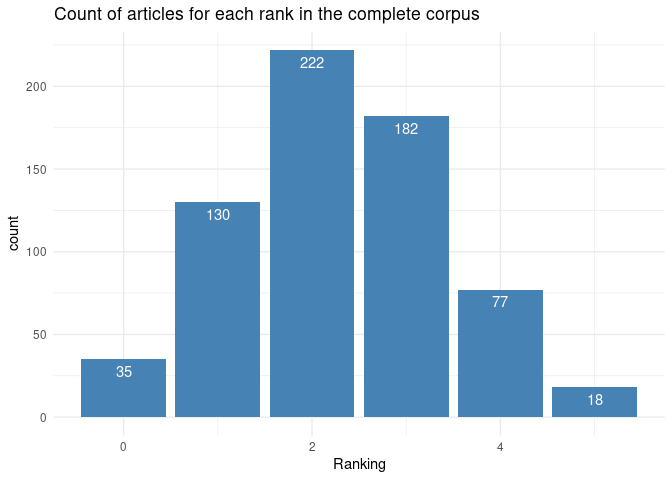
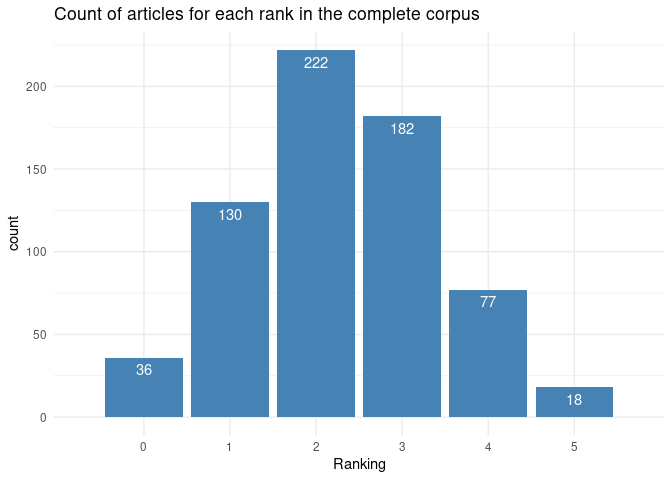
Commit before teleworking

diff --git a/Ranking_articles.md b/Ranking_articles.md
@@ -283,7 +283,7 @@ df = within(df, {
   condition = ifelse((In_vitro == "Yes" & In_vivo == "Yes"), "Mixed", "Not_mixed")
 })
 
-p <- ggplot(df, aes(x=Ranking)) + geom_bar(fill="steelblue") +  geom_text(stat='count', aes(label=..count..), vjust=1.6, color="white") + theme_minimal() + ggtitle("Count of articles for each rank in the complete corpus") 
+p <- ggplot(df, aes(x=Ranking)) + geom_bar(fill="steelblue") +  geom_text(stat='count', aes(label=stat(count)), vjust=1.6, color="white") + theme_minimal() + scale_x_discrete(name ="Ranking",  limits=c(0,1,2, 3, 4, 5)) + ggtitle("Count of articles for each rank in the complete corpus") 
 p
 ```
 
@@ -346,9 +346,9 @@ head(df[order(df$Ranking, decreasing = TRUE),], 30)
     ## 537   Lung Toxicity    1            1              1                    1
     ## 539   Lung Toxicity    1            1              1                    1
     ## 540   Lung Toxicity    1            1              1                    1
-    ## 567   Lung Toxicity    1            1              1                    1
-    ## 638   Neurotoxicity    1            1              1                    1
-    ## 654   Neurotoxicity    1            1              1                    1
+    ## 568   Lung Toxicity    1            1              1                    1
+    ## 639   Neurotoxicity    1            1              1                    1
+    ## 655   Neurotoxicity    1            1              1                    1
     ## 13  Biodistribution    1            1              0                    1
     ## 18  Biodistribution    1            0              1                    1
     ## 25  Biodistribution    1            0              1                    1
@@ -377,9 +377,9 @@ head(df[order(df$Ranking, decreasing = TRUE),], 30)
     ## 537           1                Gosens et al 2016.pdf      Yes     Yes
     ## 539           1 Götz AA, Vidal-Puig A et al 2011.pdf      Yes     Yes
     ## 540           1             Götz, A A et al 2011.pdf      Yes     Yes
-    ## 567           1                Schreiber, N 2016.pdf      Yes     Yes
-    ## 638           1                Liu, Y et al 2012.pdf       No     Yes
-    ## 654           1               Wang, Y et al 2011.pdf      Yes     Yes
+    ## 568           1                Schreiber, N 2016.pdf      Yes     Yes
+    ## 639           1                Liu, Y et al 2012.pdf       No     Yes
+    ## 655           1               Wang, Y et al 2011.pdf      Yes     Yes
     ## 13            1              Bellusci et al 2014.pdf      Yes     Yes
     ## 18            1               Chen, L et al 2017.pdf      Yes     Yes
     ## 25            1             Chinde, S et al 2017.pdf      Yes     Yes
@@ -408,9 +408,9 @@ head(df[order(df$Ranking, decreasing = TRUE),], 30)
     ## 537             164       5     Mixed
     ## 539              42       5     Mixed
     ## 540              71       5     Mixed
-    ## 567             268       5     Mixed
-    ## 638             126       5 Not_mixed
-    ## 654             129       5     Mixed
+    ## 568             268       5     Mixed
+    ## 639             126       5 Not_mixed
+    ## 655             129       5     Mixed
     ## 13              109       4     Mixed
     ## 18               38       4     Mixed
     ## 25              171       4     Mixed
